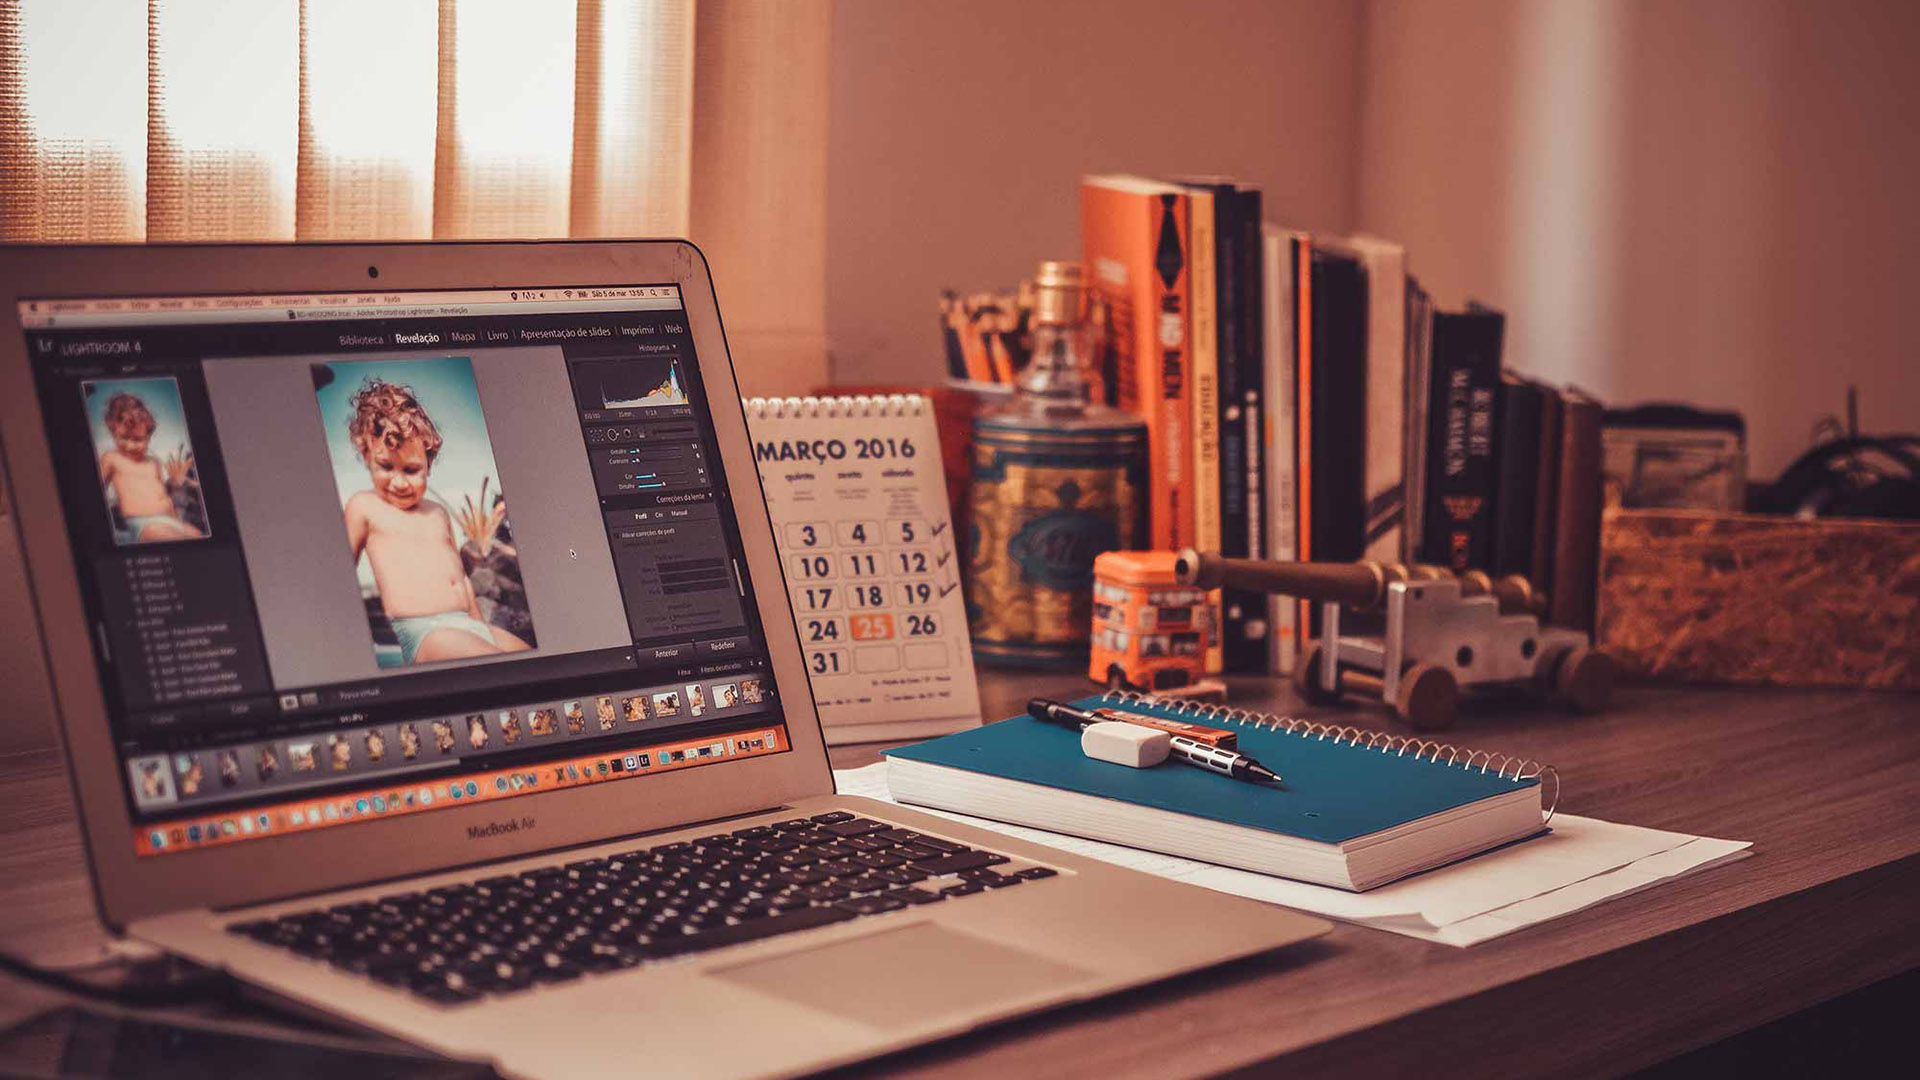
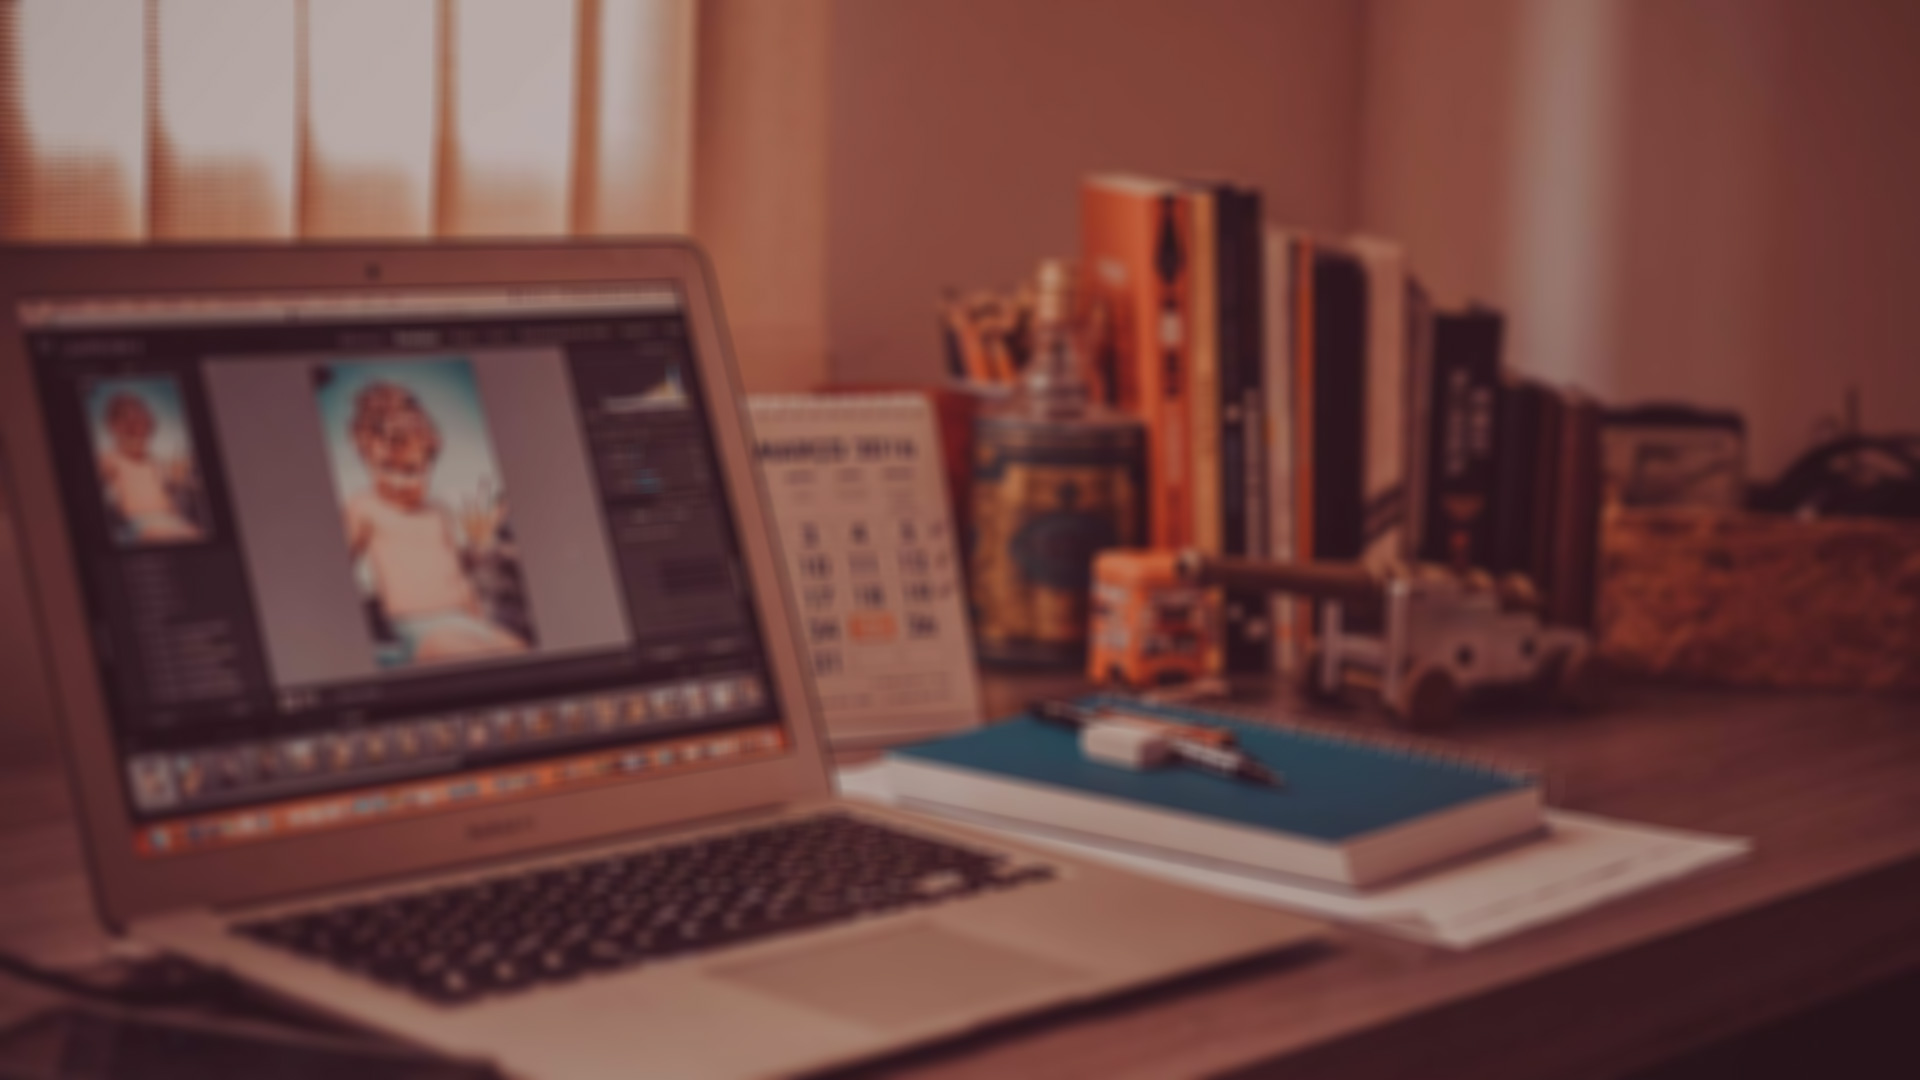
added pages

diff --git a/_sass/_base.scss b/_sass/_base.scss
@@ -1,22 +1,58 @@
+.site-header
+{
+   
+}
 .background-img
 {
-    background-size:cover;
+
     background-image: url(../assets/img/desk.jpg);
     width:100%;
     height:100%;
-    position: absolute;
+    position: fixed;
     top:0;
     left:0;
     z-index: -1;
     
 }
+.large-text{
+    font-size: 8vw;
+} 
 
 .home
 {
+    padding:80px 40px;
     position:relative;
     z-index: 0;
+    text-align: center;
+    color:$white;
+    height:90vh;
+    .introduction
+    {
+        font-size:3.8vw;
+    .large-text
+        {
+            font-weight: bold;
+            @include opacity(0.8);
+        }
+    }
 }
 a .icon svg
 {
     @include square(10px);
+}
+.logo {
+    width:280px;
+    height:104px;
+    
+    margin-left:auto;
+    margin-right:auto;
+   background-size:contain;
[1 lines of base64/hex data omitted]
+}
+
+section
+{
+    background:$light-gray;
+    height:100vh;
+    padding:10vh 10vw;
 }

diff --git a/index.html b/index.html
@@ -3,21 +3,13 @@ layout: default
 ---
 
 <div class="home">
-
-  <h1 class="page-heading">Posts</h1>
-
-  <ul class="post-list">
-    {% for post in site.posts %}
-      <li>
-        <span class="post-meta">{{ post.date | date: "%b %-d, %Y" }}</span>
-
-        <h2>
-          <a class="post-link" href="{{ post.url | prepend: site.baseurl }}">{{ post.title }}</a>
-        </h2>
-      </li>
-    {% endfor %}
-  </ul>
-
-
+  <a class="site-title" href="{{ site.baseurl }}/" alt=">{{ site.title }}"><div class="logo"></div>
+    </a>   
+    <p class="introduction">Hello, I'm Desislava Slavkova &amp; I do<br/><span class="large-text"> UX DESIGN &amp;BUILD</span><br/>responsive Web apps and Websites</p>
 </div>
  <div class="background-img"></div>
+<section>
+    <h2>Projects<h2>
+        
+        
+        </section>

diff --git a/_includes/header.html b/_includes/header.html
@@ -2,20 +2,16 @@
 
   <div class="wrapper">
 
-    <a class="site-title" href="{{ site.baseurl }}/">{{ site.title }}</a>
+  
+    <nav class="site-nav">   
 
-    <nav class="site-nav">
-      <a href="#" class="menu-icon">
-      
-      </a>
 
-      <div class="trigger">
-        {% for my_page in site.pages %}
+       <!-- {% for my_page in site.pages %}
           {% if my_page.title %}
           <a class="page-link" href="{{ my_page.url | prepend: site.baseurl }}">{{ my_page.title }}</a>
           {% endif %}
-        {% endfor %}
-      </div>
+        {% endfor %} -->
+
     </nav>
 
   </div>

diff --git a/css/main.scss b/css/main.scss
@@ -7,4 +7,5 @@
 // Import partials from `sass_dir` (defaults to `_sass`)
 @import
     "bootstrap",
-    "base";
+      "variables",
+    "base"; 

diff --git a/projects/index.html b/projects/index.html
@@ -1,0 +1,7 @@
+---
+layout: page
+title: Projects
+permalink: /projects/
+---
+
+<h1>Projects</h1>

diff --git a/contact/index.html b/contact/index.html
@@ -1,0 +1,7 @@
+---
+layout: page
+title: Contact
+permalink: /contact/
+---
+
+<h1>Contact</h1>

diff --git a/about/index.html b/about/index.html
@@ -1,0 +1,7 @@
+---
+layout: page
+title: About
+permalink: /about/
+---
+
+<h1>About</h1>

diff --git a/_layouts/page.html b/_layouts/page.html
@@ -1,4 +1,4 @@
----
+I---
 layout: default
 ---
 <article class="post">

diff --git a/_sass/_variables.scss b/_sass/_variables.scss
@@ -1,0 +1,2 @@
+$white: #FFFFFF;
+$light-gray: #E6E6E6;
